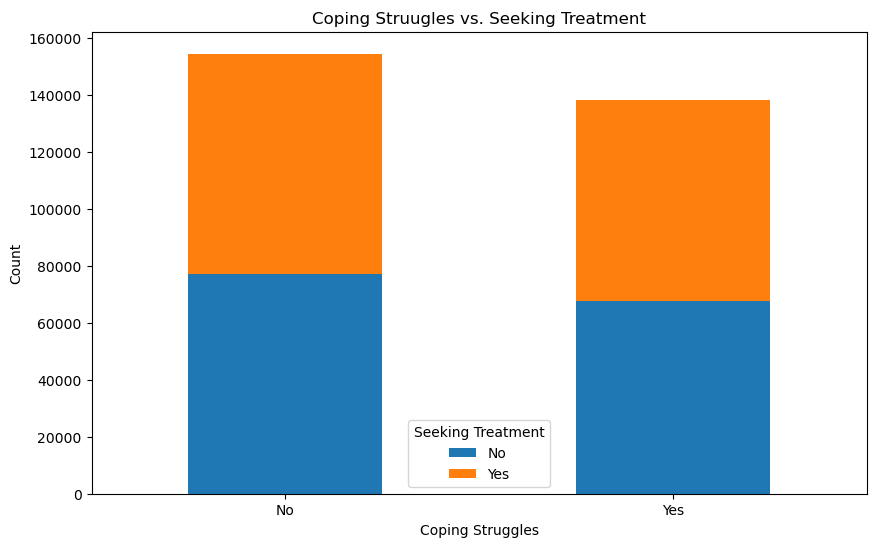
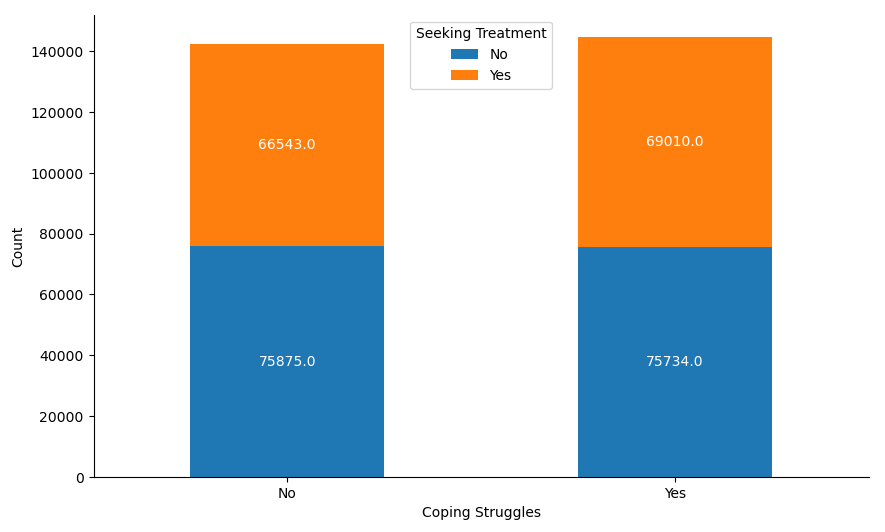
Added coping struggles by interest

diff --git a/projects/_posts/2024-04-06-mental-health.md b/projects/_posts/2024-04-06-mental-health.md
@@ -231,7 +231,7 @@ Most of the other countries were around a few hundred or few thousand with the e
 
 From this information, it made me curious as to why the United States and United Kingdom have the vastly the highest amounts in the world. What I found interesting is the amount in the United Kingdom. For such a small country compared to the majority of other countries, there was a high percentage. 
 
-![Full-width image](/data-analysis-portfolio/assets/img/mental-health/gender-by-country.png){:.centered loading="lazy"}
+![Full-width image](/data-analysis-portfolio/assets/img/mental-health/gender-by-country.png){:.left loading="lazy"}
 
 Chart showing gender distribution by country.
 {:.figcaption}
@@ -327,7 +327,7 @@ ax.spines['right'].set_visible(False)
 
 ### Staying Indoors by Occupation and Gender Distribution
 
-![Full-width image](/data-analysis-portfolio/assets/img/mental-health/staying-indoors-by-occupation-breakdown.png){:.centered loading="lazy"}
+![Full-width image](/data-analysis-portfolio/assets/img/mental-health/staying-indoors-by-occupation-breakdown.png){:.left loading="lazy"}
 
 Chart showing number of individuals staying indoors by their occupation and gender distribution.
 {:.figcaption}
@@ -486,6 +486,81 @@ ax5.spines['right'].set_visible(False)
 
 ## adjust the spacing between subplots
 fig.subplots_adjust(hspace=0.6)
+```
+</div>
+</details>
+<br/>
+
+### Work Interest by Occupation
+
+![Full-width image](/data-analysis-portfolio/assets/img/mental-health/work-interest-by-occupation.png){:.left loading="lazy"}
+
+Chart showing number of individuals work interest by their occupation.
+{:.figcaption}
+
+<details>
+<summary>Expand to see code used</summary>
+<div markdown="1">
+```python
+# Analyze the relationship between occupation and work interest
+work_interest_by_occupation = df.groupby(['occupation', 'work_interest'])['work_interest'].count().unstack().fillna(0)
+
+# chart settings
+legend = ['Maybe', 'No', 'Yes']
+label_colors = ['white', 'white', 'white']
+
+ax = work_interest_by_occupation.plot(kind='bar', stacked=True, figsize=(10, 6), rot=0, xlabel='Occupation', ylabel='Count')
+
+for i, c in enumerate(ax.containers):
+    # Optional: if the segment is small or 0, customize the labels
+    labels = [v.get_height() if v.get_height() > 0 else '' for v in c]
+    # remove the labels parameter if it's not needed for customized labels
+    ax.bar_label(c, labels=labels, label_type='center', color=label_colors[i])
+
+# set the location of the legend
+ax.legend(title='Work Interest', labels=legend, loc='upper left')
+
+# Remove the top and right spines
+ax.spines['top'].set_visible(False)
+ax.spines['right'].set_visible(False)
+```
+</div>
+</details>
+<br/>
+
+
+### Coping Struggles by Seeking Treatment
+
+![Full-width image](/data-analysis-portfolio/assets/img/mental-health/coping-struggles-treatment.png){:.left loading="lazy"}
+
+Chart showing number of individuals coping struggles by seeking treatment.
+{:.figcaption}
+
+<details>
+<summary>Expand to see code used</summary>
+<div markdown="1">
+```python
+# Analyze the relationship between coping struggles and treatment
+coping_struggles_by_treatment = df.groupby(['treatment', 'coping_struggles'])['treatment'].count().unstack().fillna(0)
+
+# chart settings
+legend = ['No', 'Yes']
+label_colors = ['white', 'white']
+
+ax = coping_struggles_by_treatment.plot(kind='bar', stacked=True, figsize=(10, 6), rot=0, xlabel='Coping Struggles', ylabel='Count')
+
+for i, c in enumerate(ax.containers):
+    # Optional: if the segment is small or 0, customize the labels
+    labels = [v.get_height() if v.get_height() > 0 else '' for v in c]
+    # remove the labels parameter if it's not needed for customized labels
+    ax.bar_label(c, labels=labels, label_type='center', color=label_colors[i])
+
+# set the location of the legend
+ax.legend(title='Seeking Treatment', labels=legend, loc='upper center')
+
+# Remove the top and right spines
+ax.spines['top'].set_visible(False)
+ax.spines['right'].set_visible(False)
 ```
 </div>
 </details>
